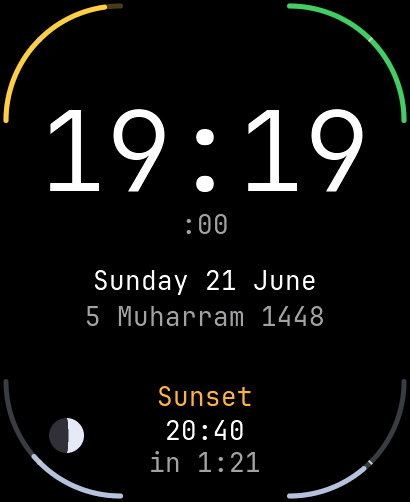
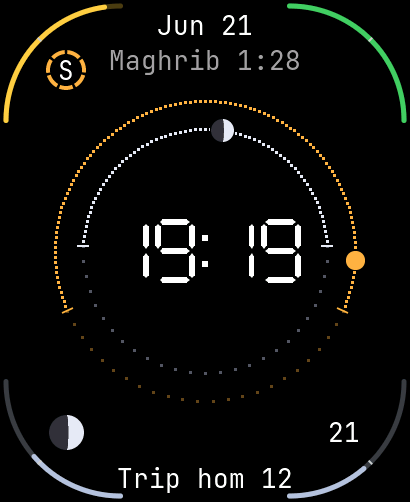
Refresh the screenshots for the face pages
Both languages from the development build in the fixed scene: the four
pages, the five default face pages with their always-on faces, the
setup portal on and then off with a new password; the README
animations; the portal's Time, Faces and Update pages. The screenshot
pages show the face pages beside their always-on faces.

diff --git a/tools/screenshot.py b/tools/screenshot.py
@@ -15,8 +15,8 @@ The pages show a fixed scene (the "D" command: Istanbul, 2026-06-21 19:19 local 
 the published pictures stay the same and do not show the watch's location; --live keeps the
 watch's own time and settings.
 
-Without page numbers it takes every page, then the always-on face in every style
-(always-on-<style>.png) and the watch face in every layout (face-<style>.png);
+Without page numbers it takes every page, then the always-on face of every face page
+(always-on-<page>.png) and every face page (face-<page>.png);
 tools/make_gifs.py turns those into the animations of the README.
 
 Screenshots for the repository (before a push): the setup portal on, then off with a new

diff --git a/tools/make_gifs.py b/tools/make_gifs.py
@@ -1,6 +1,6 @@
 #!/usr/bin/env python3
-"""Animations of the README from the screenshots of tools/screenshot.py: every always-on style
-(always-on-<style>.png -> always-on.gif) and every watch face layout (face-<style>.png ->
+"""Animations of the README from the screenshots of tools/screenshot.py: the always-on face of
+every face page (always-on-<page>.png -> always-on.gif) and every face page (face-<page>.png ->
 faces.gif), one after the other, as a swipe up or down on the watch steps through them.
 
     tools/.venv/bin/python tools/make_gifs.py    (Pillow, see tools/setup_reference.sh)

diff --git a/docs/screenshots/tr/README.md b/docs/screenshots/tr/README.md
@@ -2,70 +2,70 @@
 
 [English](../en/README.md) · [README'ye dön](../../README.md)
 
-Saatin beş sayfası yan yana; yana kaydırma aralarında geçer. Yukarı ya da aşağı kaydırma bir sayfanın parçalarına geçer; parçalar alt alta gösterilmiştir (ilk iki sayfada: stiller). Görüntüler saatten `tools/screenshot.py` ile sabit bir sahnede alındı: İstanbul, 21 Haziran 2026, 19:19. Bekleme yüzü tam parlaklıkta gösterilmiştir; saat onu soluklaştırır.
+Saatin dört sayfası yan yana; yana kaydırma aralarında geçer. Yukarı ya da aşağı kaydırma bir sayfanın parçalarına geçer; parçalar alt alta gösterilmiştir. Ön yüzde beş varsayılan yüz sayfası, her birinin yanında bekleme yüzüyle: etkin mod o sayfada bitince saatin gösterdiği soluk biçim. Görüntüler saatten `tools/screenshot.py` ile sabit bir sahnede alındı: İstanbul, 21 Haziran 2026, 19:19. Bekleme yüzü tam parlaklıkta gösterilmiştir; saat onu soluklaştırır.
 
 <table>
 <tr>
-<th>Bekleme</th>
 <th>Ön yüz</th>
+<th>Bekleme</th>
 <th>Saat</th>
 <th>Bilgi</th>
 <th>Ayarlar</th>
 </tr>
 <tr>
-<td><img src="always-on-0.png" width="150" alt="always-on-0"></td>
 <td><img src="face-0.png" width="150" alt="face-0"></td>
-<td><img src="2-world.png" width="150" alt="2-world"></td>
-<td><img src="8-sun.png" width="150" alt="8-sun"></td>
-<td><img src="15-settings.png" width="150" alt="15-settings"></td>
+<td><img src="always-on-0.png" width="150" alt="always-on-0"></td>
+<td><img src="1-world.png" width="150" alt="1-world"></td>
+<td><img src="7-sun.png" width="150" alt="7-sun"></td>
+<td><img src="14-settings.png" width="150" alt="14-settings"></td>
 </tr>
 <tr>
-<td><img src="always-on-1.png" width="150" alt="always-on-1"></td>
 <td><img src="face-1.png" width="150" alt="face-1"></td>
-<td><img src="3-stopwatch.png" width="150" alt="3-stopwatch"></td>
-<td><img src="9-twilight.png" width="150" alt="9-twilight"></td>
-<td><img src="16-settings-2.png" width="150" alt="16-settings-2"></td>
+<td><img src="always-on-1.png" width="150" alt="always-on-1"></td>
+<td><img src="2-stopwatch.png" width="150" alt="2-stopwatch"></td>
+<td><img src="8-twilight.png" width="150" alt="8-twilight"></td>
+<td><img src="15-settings-2.png" width="150" alt="15-settings-2"></td>
 </tr>
 <tr>
-<td><img src="always-on-2.png" width="150" alt="always-on-2"></td>
 <td><img src="face-2.png" width="150" alt="face-2"></td>
-<td><img src="4-timer.png" width="150" alt="4-timer"></td>
-<td><img src="10-prayer.png" width="150" alt="10-prayer"></td>
-<td><img src="17-setup-info.png" width="150" alt="17-setup-info"></td>
+<td><img src="always-on-2.png" width="150" alt="always-on-2"></td>
+<td><img src="3-timer.png" width="150" alt="3-timer"></td>
+<td><img src="9-prayer.png" width="150" alt="9-prayer"></td>
+<td><img src="16-setup-info.png" width="150" alt="16-setup-info"></td>
 </tr>
 <tr>
-<td><img src="always-on-3.png" width="150" alt="always-on-3"></td>
 <td><img src="face-3.png" width="150" alt="face-3"></td>
-<td><img src="5-gregorian.png" width="150" alt="5-gregorian"></td>
-<td><img src="11-moon.png" width="150" alt="11-moon"></td>
-<td><img src="18-setup.png" width="150" alt="18-setup"></td>
+<td><img src="always-on-3.png" width="150" alt="always-on-3"></td>
+<td><img src="4-gregorian.png" width="150" alt="4-gregorian"></td>
+<td><img src="10-moon.png" width="150" alt="10-moon"></td>
+<td><img src="17-setup.png" width="150" alt="17-setup"></td>
 </tr>
 <tr>
+<td><img src="face-4.png" width="150" alt="face-4"></td>
 <td><img src="always-on-4.png" width="150" alt="always-on-4"></td>
-<td></td>
-<td><img src="6-hijri.png" width="150" alt="6-hijri"></td>
-<td><img src="12-compass.png" width="150" alt="12-compass"></td>
-<td></td>
+<td><img src="5-hijri.png" width="150" alt="5-hijri"></td>
+<td><img src="11-compass.png" width="150" alt="11-compass"></td>
+<td><img src="19-setup-code.png" width="150" alt="19-setup-code"></td>
 </tr>
 <tr>
 <td></td>
 <td></td>
-<td><img src="7-days.png" width="150" alt="7-days"></td>
-<td><img src="13-time.png" width="150" alt="13-time"></td>
-<td></td>
-</tr>
-<tr>
-<td></td>
-<td></td>
-<td></td>
-<td><img src="14-battery.png" width="150" alt="14-battery"></td>
+<td><img src="6-days.png" width="150" alt="6-days"></td>
+<td><img src="12-time.png" width="150" alt="12-time"></td>
 <td></td>
 </tr>
 <tr>
 <td></td>
 <td></td>
 <td></td>
-<td><img src="19-about.png" width="150" alt="19-about"></td>
+<td><img src="13-battery.png" width="150" alt="13-battery"></td>
+<td></td>
+</tr>
+<tr>
+<td></td>
+<td></td>
+<td></td>
+<td><img src="18-about.png" width="150" alt="18-about"></td>
 <td></td>
 </tr>
 </table>
@@ -76,10 +76,11 @@ Saatin kendi Wi-Fi'ı üzerinden sunduğu kurulum sayfası ve yazılım güncell
 
 <table>
 <tr>
-<th>Ayarlar sayfası</th><th>Güncelleme sayfası</th>
+<th>Zaman ve yer</th><th>Yüzler</th><th>Güncelleme sayfası</th>
 </tr>
 <tr>
-<td valign="top"><img src="portal.png" width="300" alt="portal"></td>
-<td valign="top"><img src="update.png" width="300" alt="update"></td>
+<td valign="top"><img src="portal.png" width="260" alt="portal"></td>
+<td valign="top"><img src="portal-faces.png" width="260" alt="portal-faces"></td>
+<td valign="top"><img src="update.png" width="260" alt="update"></td>
 </tr>
 </table>

diff --git a/docs/screenshots/en/README.md b/docs/screenshots/en/README.md
@@ -2,70 +2,70 @@
 
 [Türkçe](../tr/README.md) · [Back to the README](../../README.md)
 
-The watch's five pages side by side, as a sideways swipe moves between them; a swipe up or down steps through the parts of a page, shown below each other (on the first two pages: the styles). Taken from the watch with `tools/screenshot.py` in a fixed scene: Istanbul, 21 June 2026, 19:19. The always-on face is shown at full brightness; the watch dims it.
+The watch's four pages side by side, as a sideways swipe moves between them; a swipe up or down steps through the parts of a page, shown below each other. The watch face shows the five default face pages, each beside its always-on face, the dim form the watch shows when active mode ends on that page. Taken from the watch with `tools/screenshot.py` in a fixed scene: Istanbul, 21 June 2026, 19:19. The always-on face is shown at full brightness; the watch dims it.
 
 <table>
 <tr>
-<th>Always-on</th>
 <th>Watch face</th>
+<th>Always-on</th>
 <th>Clock</th>
-<th>Information</th>
+<th>Info</th>
 <th>Settings</th>
 </tr>
 <tr>
-<td><img src="always-on-0.png" width="150" alt="always-on-0"></td>
 <td><img src="face-0.png" width="150" alt="face-0"></td>
-<td><img src="2-world.png" width="150" alt="2-world"></td>
-<td><img src="8-sun.png" width="150" alt="8-sun"></td>
-<td><img src="15-settings.png" width="150" alt="15-settings"></td>
+<td><img src="always-on-0.png" width="150" alt="always-on-0"></td>
+<td><img src="1-world.png" width="150" alt="1-world"></td>
+<td><img src="7-sun.png" width="150" alt="7-sun"></td>
+<td><img src="14-settings.png" width="150" alt="14-settings"></td>
 </tr>
 <tr>
-<td><img src="always-on-1.png" width="150" alt="always-on-1"></td>
 <td><img src="face-1.png" width="150" alt="face-1"></td>
-<td><img src="3-stopwatch.png" width="150" alt="3-stopwatch"></td>
-<td><img src="9-twilight.png" width="150" alt="9-twilight"></td>
-<td><img src="16-settings-2.png" width="150" alt="16-settings-2"></td>
+<td><img src="always-on-1.png" width="150" alt="always-on-1"></td>
+<td><img src="2-stopwatch.png" width="150" alt="2-stopwatch"></td>
+<td><img src="8-twilight.png" width="150" alt="8-twilight"></td>
+<td><img src="15-settings-2.png" width="150" alt="15-settings-2"></td>
 </tr>
 <tr>
-<td><img src="always-on-2.png" width="150" alt="always-on-2"></td>
 <td><img src="face-2.png" width="150" alt="face-2"></td>
-<td><img src="4-timer.png" width="150" alt="4-timer"></td>
-<td><img src="10-prayer.png" width="150" alt="10-prayer"></td>
-<td><img src="17-setup-info.png" width="150" alt="17-setup-info"></td>
+<td><img src="always-on-2.png" width="150" alt="always-on-2"></td>
+<td><img src="3-timer.png" width="150" alt="3-timer"></td>
+<td><img src="9-prayer.png" width="150" alt="9-prayer"></td>
+<td><img src="16-setup-info.png" width="150" alt="16-setup-info"></td>
 </tr>
 <tr>
-<td><img src="always-on-3.png" width="150" alt="always-on-3"></td>
 <td><img src="face-3.png" width="150" alt="face-3"></td>
-<td><img src="5-gregorian.png" width="150" alt="5-gregorian"></td>
-<td><img src="11-moon.png" width="150" alt="11-moon"></td>
-<td><img src="18-setup.png" width="150" alt="18-setup"></td>
+<td><img src="always-on-3.png" width="150" alt="always-on-3"></td>
+<td><img src="4-gregorian.png" width="150" alt="4-gregorian"></td>
+<td><img src="10-moon.png" width="150" alt="10-moon"></td>
+<td><img src="17-setup.png" width="150" alt="17-setup"></td>
 </tr>
 <tr>
+<td><img src="face-4.png" width="150" alt="face-4"></td>
 <td><img src="always-on-4.png" width="150" alt="always-on-4"></td>
-<td></td>
-<td><img src="6-hijri.png" width="150" alt="6-hijri"></td>
-<td><img src="12-compass.png" width="150" alt="12-compass"></td>
-<td></td>
+<td><img src="5-hijri.png" width="150" alt="5-hijri"></td>
+<td><img src="11-compass.png" width="150" alt="11-compass"></td>
+<td><img src="19-setup-code.png" width="150" alt="19-setup-code"></td>
 </tr>
 <tr>
 <td></td>
 <td></td>
-<td><img src="7-days.png" width="150" alt="7-days"></td>
-<td><img src="13-time.png" width="150" alt="13-time"></td>
-<td></td>
-</tr>
-<tr>
-<td></td>
-<td></td>
-<td></td>
-<td><img src="14-battery.png" width="150" alt="14-battery"></td>
+<td><img src="6-days.png" width="150" alt="6-days"></td>
+<td><img src="12-time.png" width="150" alt="12-time"></td>
 <td></td>
 </tr>
 <tr>
 <td></td>
 <td></td>
 <td></td>
-<td><img src="19-about.png" width="150" alt="19-about"></td>
+<td><img src="13-battery.png" width="150" alt="13-battery"></td>
+<td></td>
+</tr>
+<tr>
+<td></td>
+<td></td>
+<td></td>
+<td><img src="18-about.png" width="150" alt="18-about"></td>
 <td></td>
 </tr>
 </table>
@@ -76,10 +76,11 @@ The setup page the watch serves over its own Wi-Fi, and its software update page
 
 <table>
 <tr>
-<th>Settings page</th><th>Update page</th>
+<th>Time and place</th><th>Faces</th><th>Update page</th>
 </tr>
 <tr>
-<td valign="top"><img src="portal.png" width="300" alt="portal"></td>
-<td valign="top"><img src="update.png" width="300" alt="update"></td>
+<td valign="top"><img src="portal.png" width="260" alt="portal"></td>
+<td valign="top"><img src="portal-faces.png" width="260" alt="portal-faces"></td>
+<td valign="top"><img src="update.png" width="260" alt="update"></td>
 </tr>
 </table>

diff --git a/CLAUDE.md b/CLAUDE.md
@@ -365,11 +365,12 @@ Before a push that changes what the watch shows, refresh `docs/screenshots/en/` 
 the board with the development build, once per language (host command `L 0` or `L 1` switches
 the watch's language; put back the one it had):
 `python tools/screenshot.py --out docs/screenshots/<en|tr> --send P --after P --after N` (all
-pages, every always-on style and watch face layout; the setup portal on for its page, then off
+pages, every face page and its always-on face; the watch's saved face pages and corner gauges
+are what it shows, so the defaults; the setup portal on for its page, then off
 with a new password, so that the published one is not in use), then
 `tools/.venv/bin/python tools/make_gifs.py --dir docs/screenshots/<en|tr>` and the portal
-pictures `tools/portal_preview.py --shot docs/screenshots/<en|tr>/<portal|update>.png
---language <0|1> [--page /update]`. Each language has its page of them
+pictures `tools/portal_preview.py --shot docs/screenshots/<en|tr>/<portal|portal-faces|update>.png
+--language <0|1> [--page /#faces | /update]`, their empty lower part cut off. Each language has its page of them
 (`docs/screenshots/<en|tr>/README.md`, the watch's pages as columns, their parts below each
 other); the README shows only the animations. The pages show a fixed scene (Istanbul,
 2026-06-21 19:19), so that the published pictures stay comparable and never show the watch's

diff --git a/README.md b/README.md
@@ -34,11 +34,11 @@ and the PWR key turns it on again.
 
 ## Screenshots
 
-| Always-on styles | Watch faces |
+| Always-on faces | Face pages |
 |---|---|
-| ![Always-on styles](docs/screenshots/en/always-on.gif) | ![Watch faces](docs/screenshots/en/faces.gif) |
+| ![Always-on faces](docs/screenshots/en/always-on.gif) | ![Face pages](docs/screenshots/en/faces.gif) |
 
-Every page, part and style, and the setup portal: **[English](docs/screenshots/en/README.md)** ·
+Every page and part, the default face pages, and the setup portal: **[English](docs/screenshots/en/README.md)** ·
 **[Türkçe](docs/screenshots/tr/README.md)**. Taken from the watch in a fixed scene (Istanbul,
 21 June 2026, 19:19); the always-on face is shown at full brightness, the watch dims it.
 
